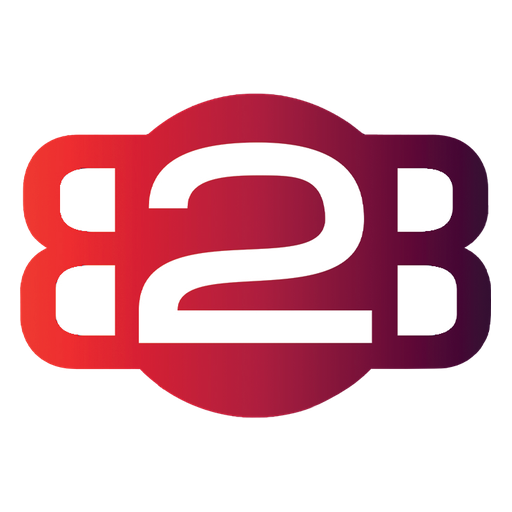
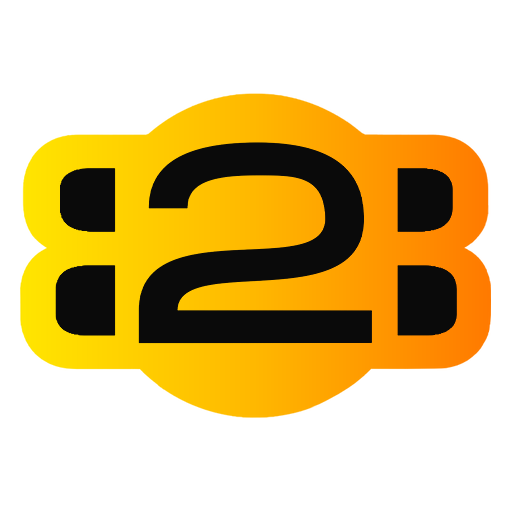
Apply Acid Yellow & Ink theme and Exo font
Recolor design tokens, crest/logo assets and icons; swap Anton/Barlow for Exo.

Claude-Session: https://claude.ai/code/session_013wppFCJroEyoZteFm6r1Pd

diff --git a/app/globals.css b/app/globals.css
@@ -1,31 +1,31 @@
 /* ============================================================
    B2B SPORTS CLUB — design tokens
-   Palette pulled directly from the club crest gradient.
+   Acid Yellow & Ink — yellow → amber → orange brand gradient on near-black.
    ============================================================ */
 :root {
-  --font-display: "Anton";
-  --font-body: "Barlow";
+  --font-display: "Exo";
+  --font-body: "Exo";
 
-  --ink: #0a0d22;
-  --ink-raised: #12172f;
-  --ink-line: rgba(247, 245, 240, 0.14);
-  --ink-line-soft: rgba(247, 245, 240, 0.07);
+  --ink: #0a0a0a;
+  --ink-raised: #171717;
+  --ink-line: rgba(255, 255, 255, 0.14);
+  --ink-line-soft: rgba(255, 255, 255, 0.07);
 
-  --paper: #fdfcf9;
-  --paper-line: rgba(16, 22, 63, 0.1);
-  --paper-line-soft: rgba(16, 22, 63, 0.06);
+  --paper: #fffdf0;
+  --paper-line: rgba(10, 10, 10, 0.1);
+  --paper-line-soft: rgba(10, 10, 10, 0.06);
 
-  --navy: #10163f;
-  --white: #f7f5f0;
-  --white-dim: rgba(247, 245, 240, 0.68);
-  --white-faint: rgba(247, 245, 240, 0.44);
+  --navy: #0a0a0a;
+  --white: #ffffff;
+  --white-dim: rgba(255, 255, 255, 0.68);
+  --white-faint: rgba(255, 255, 255, 0.44);
 
-  --red-bright: #ed3130;
-  --red-mid: #c81f3d;
-  --plum: #3c0d33;
+  --red-bright: #ffe600; /* acid yellow */
+  --red-mid: #ffb800; /* amber */
+  --plum: #ff7a00; /* signal orange */
 
   --gradient-brand: linear-gradient(115deg, var(--red-bright) 0%, var(--red-mid) 48%, var(--plum) 100%);
-  --gradient-brand-soft: linear-gradient(115deg, rgba(237, 49, 48, 0.16), rgba(60, 13, 51, 0.16));
+  --gradient-brand-soft: linear-gradient(115deg, rgba(255, 230, 0, 0.16), rgba(255, 122, 0, 0.16));
 
   --radius-s: 4px;
   --radius-m: 10px;
@@ -71,10 +71,10 @@ h1,
 h2,
 h3 {
   font-family: var(--font-display), sans-serif;
-  font-weight: 400;
-  line-height: 0.98;
+  font-weight: 800;
+  line-height: 1.02;
   margin: 0;
-  letter-spacing: 0.01em;
+  letter-spacing: -0.005em;
 }
 
 p {
@@ -195,7 +195,7 @@ img {
   height: 7px;
   border-radius: 50%;
   background: var(--red-bright);
-  box-shadow: 0 0 0 3px rgba(237, 49, 48, 0.22);
+  box-shadow: 0 0 0 3px rgba(255, 230, 0, 0.28);
 }
 
 /* ============================================================
@@ -215,7 +215,7 @@ img {
   width: 900px;
   height: 900px;
   transform: translateX(-50%);
-  background: radial-gradient(circle, rgba(200, 31, 61, 0.28) 0%, rgba(60, 13, 51, 0.12) 45%, transparent 70%);
+  background: radial-gradient(circle, rgba(255, 230, 0, 0.2) 0%, rgba(255, 122, 0, 0.1) 45%, transparent 70%);
   pointer-events: none;
 }
 
@@ -325,13 +325,13 @@ img {
 
 .btn--primary {
   background: var(--gradient-brand);
-  color: var(--white);
-  box-shadow: 0 10px 30px -12px rgba(200, 31, 61, 0.55);
+  color: var(--ink);
+  box-shadow: 0 10px 30px -12px rgba(255, 230, 0, 0.35);
 }
 
 .btn--primary:hover {
   transform: translateY(-2px);
-  box-shadow: 0 14px 34px -10px rgba(200, 31, 61, 0.65);
+  box-shadow: 0 14px 34px -10px rgba(255, 230, 0, 0.45);
 }
 
 .btn--ghost {
@@ -549,7 +549,7 @@ img {
   border: 1px solid transparent;
   border-image: var(--gradient-brand) 1;
   background:
-    radial-gradient(circle at 20% 15%, rgba(237, 49, 48, 0.18), transparent 55%),
+    radial-gradient(circle at 20% 15%, rgba(255, 230, 0, 0.16), transparent 55%),
     var(--ink-raised);
 }
 
@@ -628,7 +628,7 @@ img {
 
 .badge--accent {
   color: var(--red-bright);
-  border-color: rgba(237, 49, 48, 0.35);
+  border-color: rgba(255, 230, 0, 0.4);
 }
 
 /* award (small) cards */
@@ -846,7 +846,7 @@ img {
 .field textarea:focus {
   outline: none;
   border-color: var(--red-mid);
-  box-shadow: 0 0 0 3px rgba(200, 31, 61, 0.15);
+  box-shadow: 0 0 0 3px rgba(255, 230, 0, 0.2);
 }
 
 .field-error {

diff --git a/app/layout.tsx b/app/layout.tsx
@@ -1,9 +1,9 @@
 import type { Metadata, Viewport } from "next";
-import "@fontsource/anton/400.css";
-import "@fontsource/barlow/400.css";
-import "@fontsource/barlow/500.css";
-import "@fontsource/barlow/600.css";
-import "@fontsource/barlow/700.css";
+import "@fontsource/exo/400.css";
+import "@fontsource/exo/500.css";
+import "@fontsource/exo/600.css";
+import "@fontsource/exo/700.css";
+import "@fontsource/exo/800.css";
 import "./globals.css";
 import "./site.css";
 import Footer from "@/components/layout/Footer";
@@ -23,7 +23,7 @@ export async function generateMetadata(): Promise<Metadata> {
 }
 
 export const viewport: Viewport = {
-  themeColor: "#0a0d22",
+  themeColor: "#0a0a0a",
   width: "device-width",
   initialScale: 1,
 };

diff --git a/app/site.css b/app/site.css
@@ -57,7 +57,7 @@ button:focus-visible {
   top: 0;
   z-index: 50;
   backdrop-filter: blur(10px);
-  background: rgba(10, 13, 34, 0.9);
+  background: rgba(10, 10, 10, 0.9);
 }
 
 .topbar__brand {
